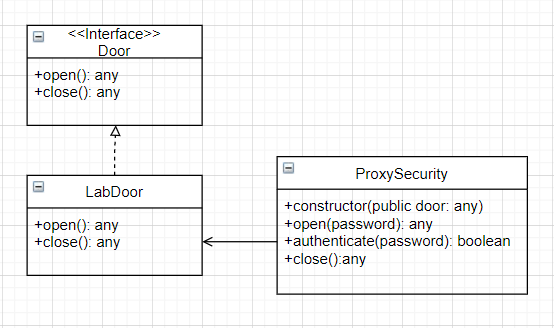
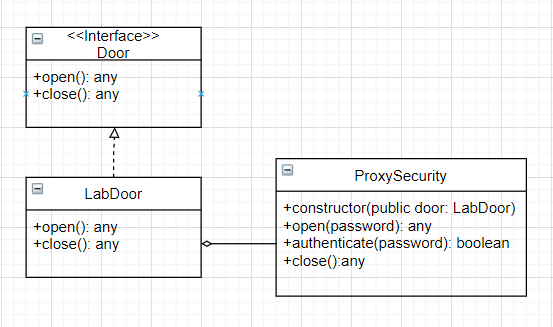
commit30

diff --git a/StructuralPatterns/Decorator/Decorator.js b/StructuralPatterns/Decorator/Decorator.js
@@ -45,9 +45,6 @@ function DecoratorAzure(server) {
 let s1 = DecoratorAWS(new Server('12.34.56.78', '8080', 'USA'));
 s1.setLocation();
 console.log(s1.awsInfo());
-let s2 = DecoratorAWS(new Server('12.34.56.78', '8080', 'Africa'));
-s2.setLocation();
-console.log(s2.awsInfo());
 let s3 = DecoratorAzure(new Server('23.54.76.98', '7680', 'Europe'));
 console.log(s3.isAzure);
 console.log(s3.port);

diff --git a/StructuralPatterns/Decorator/Decorator.ts b/StructuralPatterns/Decorator/Decorator.ts
@@ -56,10 +56,6 @@ let s1 = DecoratorAWS(new Server('12.34.56.78', '8080', 'USA'));
 s1.setLocation();
 console.log(s1.awsInfo());
 
-let s2 = DecoratorAWS(new Server('12.34.56.78', '8080', 'Africa'));
-s2.setLocation();
-console.log(s2.awsInfo());
-
 let s3 = DecoratorAzure(new Server('23.54.76.98', '7680', 'Europe'));
 console.log(s3.isAzure);
 console.log(s3.port);

diff --git a/StructuralPatterns/Proxy/Proxy.ts b/StructuralPatterns/Proxy/Proxy.ts
@@ -13,7 +13,7 @@ class LabDoor implements Door{
 };
 
 class ProxySecurity{
-    constructor(public door: any) {}
+    constructor(public door: LabDoor) {}
 
     open(password): any{
         if (this.authenticate(password)) {

diff --git a/StructuralPatterns/Composite/Composite.ts b/StructuralPatterns/Composite/Composite.ts
@@ -37,7 +37,7 @@ class Composite extends Equipment{
         this.equipments = [];
     }
 
-    add(equipment){
+    add(equipment: Equipment){
         this.equipments.push(equipment);
     }
 
